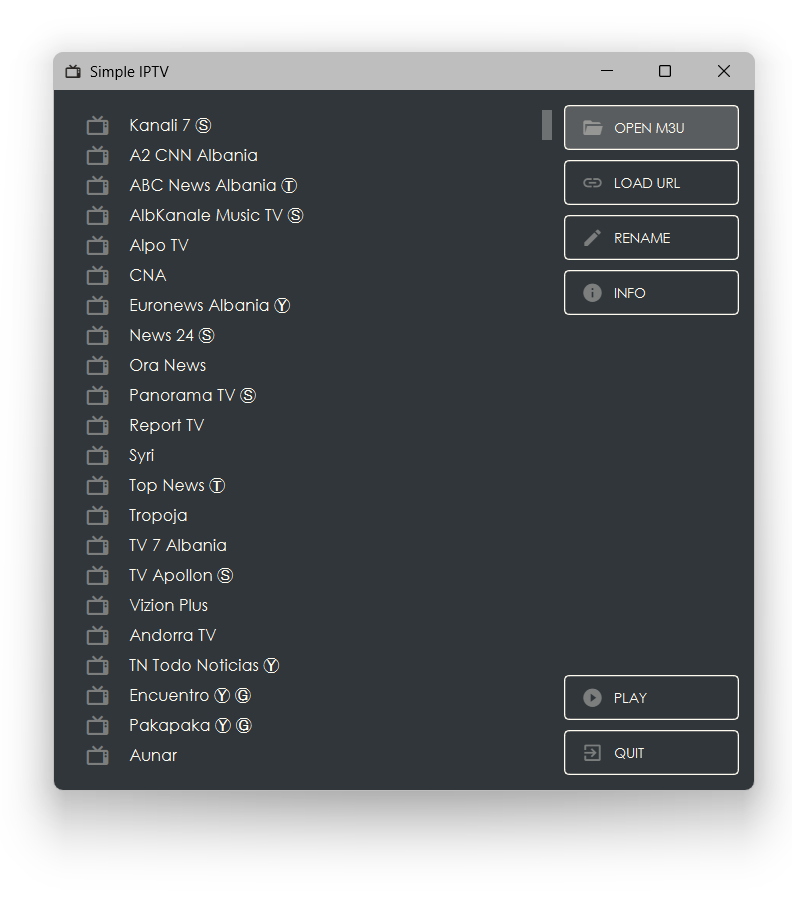
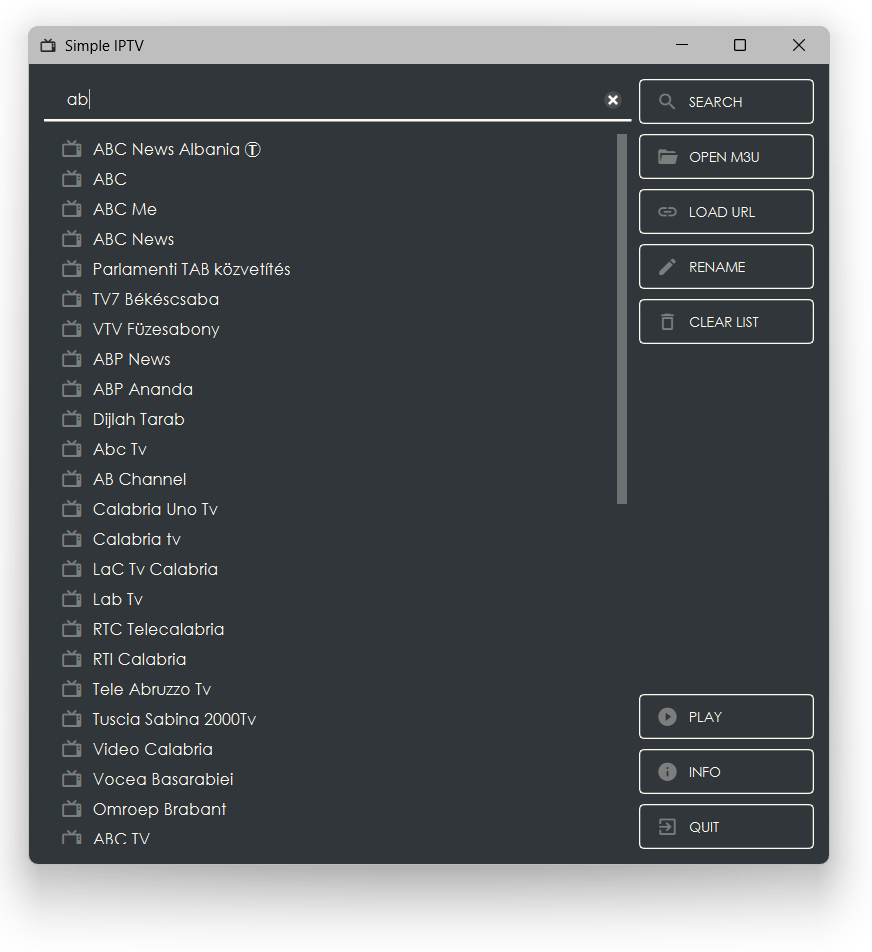
added search
adding search to manage really long channel lists.

Changed region(s): [[0.0, 0.0, 0.9697, 0.9538]]

diff --git a/simple-iptv.py b/simple-iptv.py
@@ -2,6 +2,9 @@
 # Created: 02/02/2026
 # Simple IPTV manager thing
 # ##########################
+# TO DO
+# Double click is iffy
+# ##########################
 import sys
 import os
 import json
@@ -10,12 +13,12 @@ import configparser
 import requests
 
 from PySide6.QtWidgets import (
-    QApplication, QMainWindow, QWidget, QListWidget, QListWidgetItem,
-    QPushButton, QFileDialog, QVBoxLayout, QHBoxLayout,
-    QInputDialog, QMessageBox, QLineEdit, QLabel
+    QApplication, QMainWindow, QWidget, QPushButton, QFileDialog,
+    QVBoxLayout, QHBoxLayout, QStyle, QInputDialog, QMessageBox,
+    QLineEdit, QLabel, QListView, QStyledItemDelegate
 )
-from PySide6.QtCore import Qt, QSize
-from PySide6.QtGui import QIcon, QFont
+from PySide6.QtCore import Qt, QSize, QSortFilterProxyModel, QStringListModel, QRect
+from PySide6.QtGui import QIcon, QPainter, QTextOption
 
 from qt_material import apply_stylesheet
 import qtawesome as qta
@@ -43,9 +46,59 @@ APP_FONT_SIZE = config.get('config', 'app_font_size')
 ROW_HEIGHT = int(config.get('config', 'row_height'))
 APP_HEIGHT = int(config.get('config', 'app_height'))
 APP_WIDTH = int(config.get('config', 'app_height'))
-INFO = "A simple, no nonsense IPTV manager using mpv.exe to play iptv channels. I created this as I wanted something lightweight and quick to just launch some TV.\n\nBasic features:\n• Open M3U: to open a m3u file\n• Load URL: to load an online m3u from an IPTV provider\n• Rename: to rename a highlighted channel\n• Play: or double click to play\n• Clear list: clear all channels\n• Reorder the channels by dragging the TV icons\n\nYou can tweak many things: \n• config.txt for various changes to the layout\n• config.txt to add your IPTV provider url\n• theme.xml for the colorscheme\n\n🌐 https://github.com/tugbaot/simple-iptv"
+INFO = "A simple, no nonsense IPTV manager using mpv.exe to play iptv channels. I created this as I wanted something lightweight and quick to just launch some TV.\n\nBasic features:\n• Search: to search channel list\n• Open M3U: to open a m3u file\n• Load URL: to load an online m3u from an IPTV provider\n• Rename: to rename a highlighted channel\n• Clear list: clear all channels\n• Play: or double click to play\n• Reorder the channels by dragging the TV icons\n\nYou can tweak many things: \n• config.txt for various changes to the layout\n• config.txt to add your IPTV provider url\n• theme.xml for the colorscheme\n\n🌐 https://github.com/tugbaot/simple-iptv"
 
 # ------- Right then ---------------
+class PlaylistDelegate(QStyledItemDelegate):
+    def __init__(self, height, icon, parent=None):
+        super().__init__(parent)
+        self.height = height
+        self.icon = icon
+
+    def sizeHint(self, option, index):
+        return QSize(option.rect.width(), self.height)
+
+    def paint(self, painter, option, index):
+        painter.save()
+
+        rect = option.rect
+        text = index.data(Qt.DisplayRole)
+
+        # ---- Background (hover / selection handled by style)
+        if option.state & QStyle.State_Selected:
+            painter.fillRect(rect, option.palette.highlight())
+        #elif option.state & QStyle.State_MouseOver:
+        #    painter.fillRect(rect, option.palette.base().color().lighter(105))
+        # -- this seems to cause a bug where a black highlight bar appears on prev selection 
+
+        # ---- Icon
+        icon_size = 20
+        icon_margin = 8
+
+        icon_rect = QRect(
+            rect.left() + icon_margin,
+            rect.top() + (rect.height() - icon_size) // 2,
+            icon_size,
+            icon_size
+        )
+        self.icon.paint(painter, icon_rect)
+
+        # ---- Text (multi-line, word wrap)
+        text_rect = QRect(
+            icon_rect.right() + 8,
+            rect.top() + 4,
+            rect.width() - icon_rect.width() - 24,
+            rect.height() - 8
+        )
+
+        text_option = QTextOption()
+        text_option.setWrapMode(QTextOption.WordWrap)
+
+        painter.setPen(option.palette.text().color())
+        painter.drawText(text_rect, text, text_option)
+
+        painter.restore()
+
 class M3UPlayer(QMainWindow):
     def __init__(self):
         super().__init__()
@@ -68,18 +121,49 @@ class M3UPlayer(QMainWindow):
         main.setContentsMargins(12, 12, 12, 12)
 
         # Playlist
-        self.list_widget = QListWidget()
-        self.list_widget.itemDoubleClicked.connect(self.play_selected)
-        self.list_widget.setDragDropMode(QListWidget.InternalMove)
-        self.list_widget.setDefaultDropAction(Qt.MoveAction)
-        self.list_widget.setUniformItemSizes(False)
+        # Search box
+        self.search = QLineEdit()
+        self.search.setPlaceholderText("Search channels…")
+        self.search.textChanged.connect(self.filter_changed)
+        self.search.hide()
+        self.search.setFocus(Qt.ShortcutFocusReason)
+        self.search.selectAll()
+        self.search.setClearButtonEnabled(True)
 
-        main.addWidget(self.list_widget, 1)
+
+        main_left = QVBoxLayout()
+        main_left.addWidget(self.search)
+
+        # Base model
+        self.model = QStringListModel()
+
+        # Proxy model
+        self.proxy = QSortFilterProxyModel()
+        self.proxy.setSourceModel(self.model)
+        self.proxy.setFilterCaseSensitivity(Qt.CaseInsensitive)
+        self.proxy.setFilterKeyColumn(0)
+
+        # View
+        self.list_view = QListView()
+        self.list_view.setModel(self.proxy)
+        self.list_view.doubleClicked.connect(self.play_selected)
+        self.list_view.setDragDropMode(QListView.InternalMove)
+        self.list_view.setDefaultDropAction(Qt.MoveAction)
+
+        playlist_icon = qta.icon(PLAYLIST_ICON)
+
+        self.list_view.setItemDelegate(
+            PlaylistDelegate(ROW_HEIGHT, playlist_icon, self.list_view)
+        )
+
+        main_left.addWidget(self.list_view, 1)
+        main.addLayout(main_left, 1)
 
         # Controls
         controls = QVBoxLayout()
         controls.setSpacing(8)
 
+        btn_search = self.make_button(" Search", "mdi.magnify", self.toggle_search)
         btn_open = self.make_button(" Open M3U", "mdi.folder-open", self.load_m3u)
         btn_url = self.make_button(" Load URL", "mdi.link", self.load_url)
         btn_rename = self.make_button(" Rename", "mdi.pencil", self.rename_item)
@@ -88,6 +172,7 @@ class M3UPlayer(QMainWindow):
         btn_info = self.make_button(" Info", "mdi.information", self.info)
         btn_quit = self.make_button(" Quit", "mdi.exit-to-app", self.quit)
 
+        controls.insertWidget(0, btn_search)
         controls.addWidget(btn_open)
         controls.addWidget(btn_url)
         controls.addWidget(btn_rename)
@@ -98,7 +183,6 @@ class M3UPlayer(QMainWindow):
         controls.addWidget(btn_quit)
 
         main.addLayout(controls)
-
 
     def make_button(self, text, icon_name, callback):
         btn = QPushButton(text)
@@ -112,21 +196,33 @@ class M3UPlayer(QMainWindow):
 
     # ---------- Playlist ----------
     def refresh_list(self):
-        self.list_widget.clear()
+        names = [name for name, _ in self.playlist]
+        self.model.setStringList(names)
 
-        for name, _ in self.playlist:
-            item = QListWidgetItem(f"  {name}")
-            item.setFlags(
-                Qt.ItemIsSelectable |
-                Qt.ItemIsEnabled |
-                Qt.ItemIsDragEnabled
-            )
+    def filter_changed(self, text):
+        self.proxy.setFilterFixedString(text)
 
-            # Drag handle icon (visual)
-            item.setIcon(qta.icon("mdi.television-classic"))
+    # ---------- Toggle Search ---------
+    def toggle_search(self):
+        if self.search.isVisible():
+            self.clear_search()
+        else:
+            self.search.show()
+            self.search.setFocus()
 
-            item.setSizeHint(QSize(1, ROW_HEIGHT))
-            self.list_widget.addItem(item)
+    def clear_search(self):
+        self.search.clear()
+        self.search.hide()
+        self.proxy.setFilterFixedString("")
+        self.update_drag_state()
+
+    def update_drag_state(self):
+        searching = bool(self.search.text().strip())
+
+        self.list_view.setDragEnabled(not searching)
+        self.list_view.setAcceptDrops(not searching)
+        self.list_view.setDropIndicatorShown(not searching)
+
     # ---------- Load M3U ---------
     def load_m3u(self):
         path, _ = QFileDialog.getOpenFileName(
@@ -200,9 +296,12 @@ class M3UPlayer(QMainWindow):
 
     # ---------- Renaming ---------
     def rename_item(self):
-        row = self.list_widget.currentRow()
-        if row < 0:
+        index = self.list_view.currentIndex()
+        if not index.isValid():
             return
+
+        source_index = self.proxy.mapToSource(index)
+        row = source_index.row()
 
         current = self.playlist[row][0]
         text, ok = QInputDialog.getText(
@@ -212,13 +311,11 @@ class M3UPlayer(QMainWindow):
         if ok and text:
             self.playlist[row][0] = text
             self.refresh_list()
-            self.list_widget.setCurrentRow(row)
 
     # ---------- Playback ----------
-    def play_selected(self):
-        row = self.list_widget.currentRow()
-        if row < 0:
-            return
+    def play_selected(self, index):
+        source_index = self.proxy.mapToSource(index)
+        row = source_index.row()
 
         media_path = self.playlist[row][1]
 
@@ -246,8 +343,8 @@ class M3UPlayer(QMainWindow):
     def closeEvent(self, event):
         # Sync order from UI (important after drag & drop)
         new_order = []
-        for i in range(self.list_widget.count()):
-            name = self.list_widget.item(i).text().strip()
+        for i in range(self.list_view.count()):
+            name = self.list_view.item(i).text().strip()
             for entry in self.playlist:
                 if entry[0] == name:
                     new_order.append(entry)
